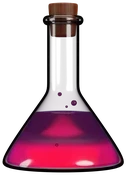
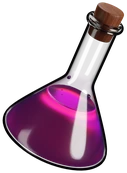
style(ui): use angled artwork for experiments and runs

diff --git a/frontend/e2e/record-lists.spec.ts b/frontend/e2e/record-lists.spec.ts
@@ -191,42 +191,21 @@ for (const theme of ["light", "dark"]) {
           exact: true,
         });
         await expect(heading).toBeVisible();
-        const icon = header.locator(
-          path === "/runs" ? "img" : '[data-slot="avatar"]',
-        );
+        const icon = header.locator("img");
         await expect(icon).toBeVisible();
         await expect(icon).toHaveCSS("width", "36px");
-        if (path === "/runs") {
-          await expect(icon).toHaveAttribute(
-            "src",
-            "/illustrations/page-headings/play.webp",
-          );
-          expect(
-            await icon.evaluate(
-              (element) => (element as HTMLImageElement).naturalWidth,
-            ),
-          ).toBeGreaterThan(0);
-          await expect(header.locator('[data-slot="avatar"]')).toHaveCount(0);
-        } else {
-          expect(
-            await icon.evaluate(
-              (element) => getComputedStyle(element, "::after").borderTopWidth,
-            ),
-          ).toBe("0px");
-          await expect(icon.locator("svg")).toHaveCSS("width", "18px");
-          expect(
-            await icon.evaluate((element) => {
-              const style = getComputedStyle(element);
-              const radius = Number.parseFloat(style.borderTopLeftRadius);
-              return radius > 0 && radius < element.clientWidth / 2;
-            }),
-          ).toBe(true);
-          expect(
-            await icon
-              .locator("[data-liquid]")
-              .evaluate((element) => getComputedStyle(element).fill),
-          ).not.toBe("none");
-        }
+        await expect(icon).toHaveAttribute(
+          "src",
+          path === "/studies"
+            ? "/illustrations/page-headings/lab.webp"
+            : "/illustrations/page-headings/play.webp",
+        );
+        expect(
+          await icon.evaluate(
+            (element) => (element as HTMLImageElement).naturalWidth,
+          ),
+        ).toBeGreaterThan(0);
+        await expect(header.locator('[data-slot="avatar"]')).toHaveCount(0);
         const search = header.getByRole("textbox", { name: `Search ${noun}` });
         await expect(search).toBeVisible();
         expect(await search.getAttribute("placeholder")).toBeNull();

diff --git a/frontend/src/components/record-list-heading.tsx b/frontend/src/components/record-list-heading.tsx
@@ -1,6 +1,5 @@
 import { Link } from "react-router-dom";
-import { ExperimentIcon, Plus, Search } from "@/components/icons";
-import { Avatar, AvatarFallback } from "@/components/ui/avatar";
+import { Plus, Search } from "@/components/icons";
 import { Button } from "@/components/ui/button";
 import {
   InputGroup,
@@ -46,27 +45,17 @@ export function RecordListHeading({
       className="flex flex-col gap-4 px-4 py-6 sm:flex-row sm:items-center sm:justify-between sm:px-6 lg:px-8"
     >
       <div className="flex min-w-0 items-center gap-3">
-        {title === "Runs" ? (
-          <img
-            src="/illustrations/page-headings/play.webp"
-            alt=""
-            width={36}
-            height={36}
-            className="size-9 shrink-0 object-contain"
-          />
-        ) : (
-          <Avatar
-            className="size-9 rounded-lg after:rounded-lg after:border-0"
-            aria-hidden="true"
-          >
-            <AvatarFallback
-              data-active="true"
-              className="rounded-lg bg-muted-foreground/15 [&>svg]:size-4.5 [&>svg:not([data-partial-fill])]:fill-current"
-            >
-              <ExperimentIcon />
-            </AvatarFallback>
-          </Avatar>
-        )}
+        <img
+          src={
+            title === "Experiments"
+              ? "/illustrations/page-headings/lab.webp"
+              : "/illustrations/page-headings/play.webp"
+          }
+          alt=""
+          width={36}
+          height={36}
+          className="size-9 shrink-0 object-contain"
+        />
         <h1 className="text-xl font-semibold tracking-tight sm:text-[1.375rem]">
           {title}
         </h1>

diff --git a/frontend/src/components/shared.tsx b/frontend/src/components/shared.tsx
@@ -17,36 +17,23 @@ import { label } from "@/lib/format";
 export function PageHeading({
   title,
   description,
-  illustration,
   children,
 }: {
   title: string;
   description?: string;
-  illustration?: string;
   children?: ReactNode;
 }) {
   return (
     <div className="mb-8 flex flex-wrap items-start justify-between gap-4">
-      <div className="flex min-w-0 items-center gap-3">
-        {illustration && (
-          <img
-            src={illustration}
-            alt=""
-            width={36}
-            height={36}
-            className="size-9 shrink-0 object-contain"
-          />
+      <div className="min-w-0">
+        <h1 className="text-2xl font-semibold tracking-tight sm:text-3xl">
+          {title}
+        </h1>
+        {description && (
+          <p className="mt-2 max-w-prose text-sm leading-relaxed text-muted-foreground">
+            {description}
+          </p>
         )}
-        <div className="min-w-0">
-          <h1 className="text-2xl font-semibold tracking-tight sm:text-3xl">
-            {title}
-          </h1>
-          {description && (
-            <p className="mt-2 max-w-prose text-sm leading-relaxed text-muted-foreground">
-              {description}
-            </p>
-          )}
-        </div>
       </div>
       {children && (
         <div className="flex shrink-0 flex-wrap items-center gap-2">

diff --git a/frontend/e2e/surfaces.spec.ts b/frontend/e2e/surfaces.spec.ts
@@ -26,31 +26,9 @@ for (const width of [390, 834, 1280, 1440]) {
           ),
         ).toBe(true);
         if (route === "environments") {
-          const heading = page.getByRole("heading", {
-            name: "Environments",
-            exact: true,
-          });
-          const illustration = heading
-            .locator("../..")
-            .locator('img[src="/illustrations/page-headings/lab.webp"]');
-          await expect(illustration).toBeVisible();
-          expect(
-            await illustration.evaluate(
-              (element) => (element as HTMLImageElement).naturalWidth,
-            ),
-          ).toBeGreaterThan(0);
-          const headingBox = await heading.boundingBox();
-          const imageBox = await illustration.boundingBox();
-          expect(
-            headingBox &&
-              imageBox &&
-              Math.abs(
-                headingBox.y +
-                  headingBox.height / 2 -
-                  imageBox.y -
-                  imageBox.height / 2,
-              ),
-          ).toBeLessThanOrEqual(1);
+          await expect(
+            page.locator('img[src="/illustrations/page-headings/lab.webp"]'),
+          ).toHaveCount(0);
           const index = page.getByRole("tablist", {
             name: "Environments",
             exact: true,

diff --git a/frontend/src/pages/environments.tsx b/frontend/src/pages/environments.tsx
@@ -115,10 +115,7 @@ export default function Environments() {
     environments[0]?.key;
   return (
     <>
-      <PageHeading
-        title="Environments"
-        illustration="/illustrations/page-headings/lab.webp"
-      />
+      <PageHeading title="Environments" />
       {catalog.error ? (
         <ErrorState error={catalog.error} onRetry={catalog.refetch} />
       ) : !catalog.data ? (

diff --git a/HANDOFF.md b/HANDOFF.md
@@ -1342,3 +1342,6 @@ Verification complete: lint, TypeScript/production build, all 105 unit tests and
 
 Page-heading illustration experiment: apply the user's wording literally to Environments and Runs (an optional clarification about Experiments versus Environments was unanswered). Runs replaces the filled Play/backing tile with a transparent front-facing Color Play from 3dicons; Environments adds the matching Lab beside its title without a tile. Experiments retains its existing flask/tile. Remove the now-unused caller icon parameter from the paired record heading. PageHeading supports an optional decorative illustration for Environments; all existing title text remains unchanged. Download official CC0 transparent PNGs, trim alpha bounds and locally encode WebP (about 10KB total), with sources/license recorded alongside assets. Thumbnail WebPs have opaque white backgrounds and were replaced with true transparent downloads. No generated primitives, dependencies, database or backend changes.
 Verification: frontend lint and TypeScript/production build passed; all 12 affected browser flows passed across light/dark and 390–1600px widths. Assertions cover loaded artwork, centered title alignment, no tile on Runs and preserved table/search behavior. Reviewed Runs desktop light and Environments mobile dark captures. Disposable browser backend exited; 8080 remains healthy with rebuilt UI. Publish existing PR #10 and unwatch on handback.
+
+
+Clarified heading artwork: user confirmed Experiments and Runs, then requested default angled icons instead of Front. Both record headings now use transparent Dynamic/Color 3dicons (Lab and Play) at 36px, without backing tiles. Restore Environments and shared PageHeading exactly to their prior plain-heading implementation; remove the unused illustration prop and old flask/Avatar branch. Replace Front assets rather than keeping alternate variants. Update source documentation and browser assertions. Lint, TypeScript/production build and all 12 affected desktop/mobile light/dark browser flows passed. Reviewed final Experiments desktop capture; 8080 remains healthy and serves rebuilt UI. Disposable test backend exited. No dependencies, primitive, database or backend changes. Publish to existing PR #10 and unwatch on handback.

diff --git a/docs/DESIGN.md b/docs/DESIGN.md
@@ -441,11 +441,10 @@ Keep creation actions out of the composer/Experiment ideas area. The empty messa
 EmptyDescription text rather than a title. Full record lists remain on their
 dedicated destinations.
 
-Experiments and Runs share one list heading. Experiments keeps its flask liquid
-in a borderless 36px rounded-square background (`muted-foreground/15`) with an
-18px glyph. Runs uses a transparent 36px front-facing Color Play illustration
-from 3dicons, without a backing tile. Environments uses the matching Lab
-illustration beside its page title. These local CC0 assets, like the Home
+Experiments and Runs share one list heading, with a transparent 36px default
+angled (Dynamic) Color illustration from 3dicons beside the title: Lab for
+Experiments and Play for Runs. Neither uses a background tile or border.
+Environments keeps its plain text heading. These local CC0 assets, like the Home
 illustrations, remain fixed across presets. Keep search at the right
 (stacked below on mobile). Search fields have no placeholder text and retain their
 accessible labels. Only Experiments includes a primary New action; start runs from

diff --git a/frontend/public/illustrations/page-headings/README.md b/frontend/public/illustrations/page-headings/README.md
@@ -1,6 +1,6 @@
 # Page heading illustrations
 
-CC0 3dicons v1, **Front / Color**, downloaded from the official site:
+CC0 3dicons v1, **Dynamic (default angled view) / Color**, downloaded from the official site:
 
 - `lab.webp`: [Lab](https://3dicons.co/icons/56180e-lab)
 - `play.webp`: [Play](https://3dicons.co/icons/866e45-play)
